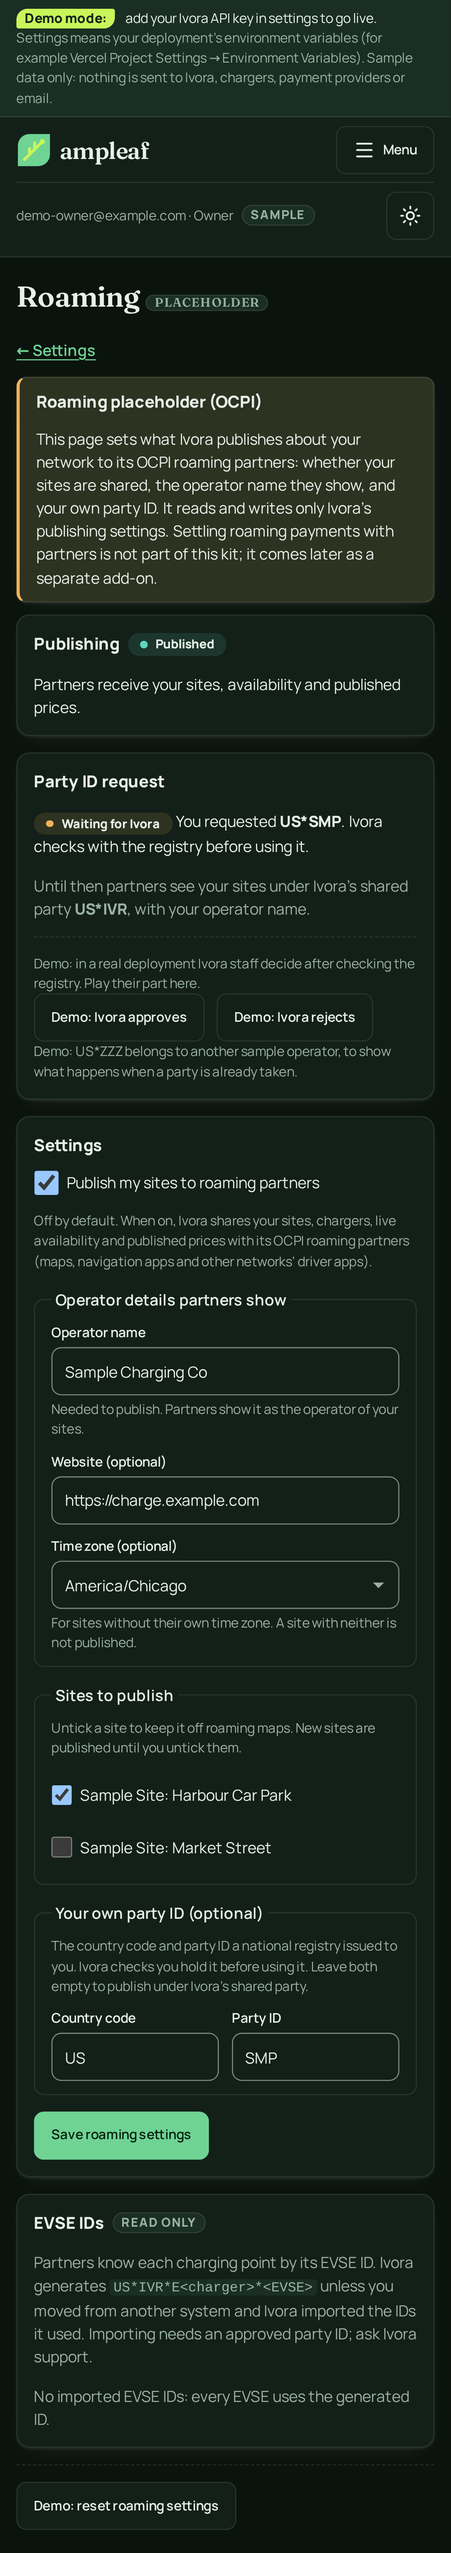
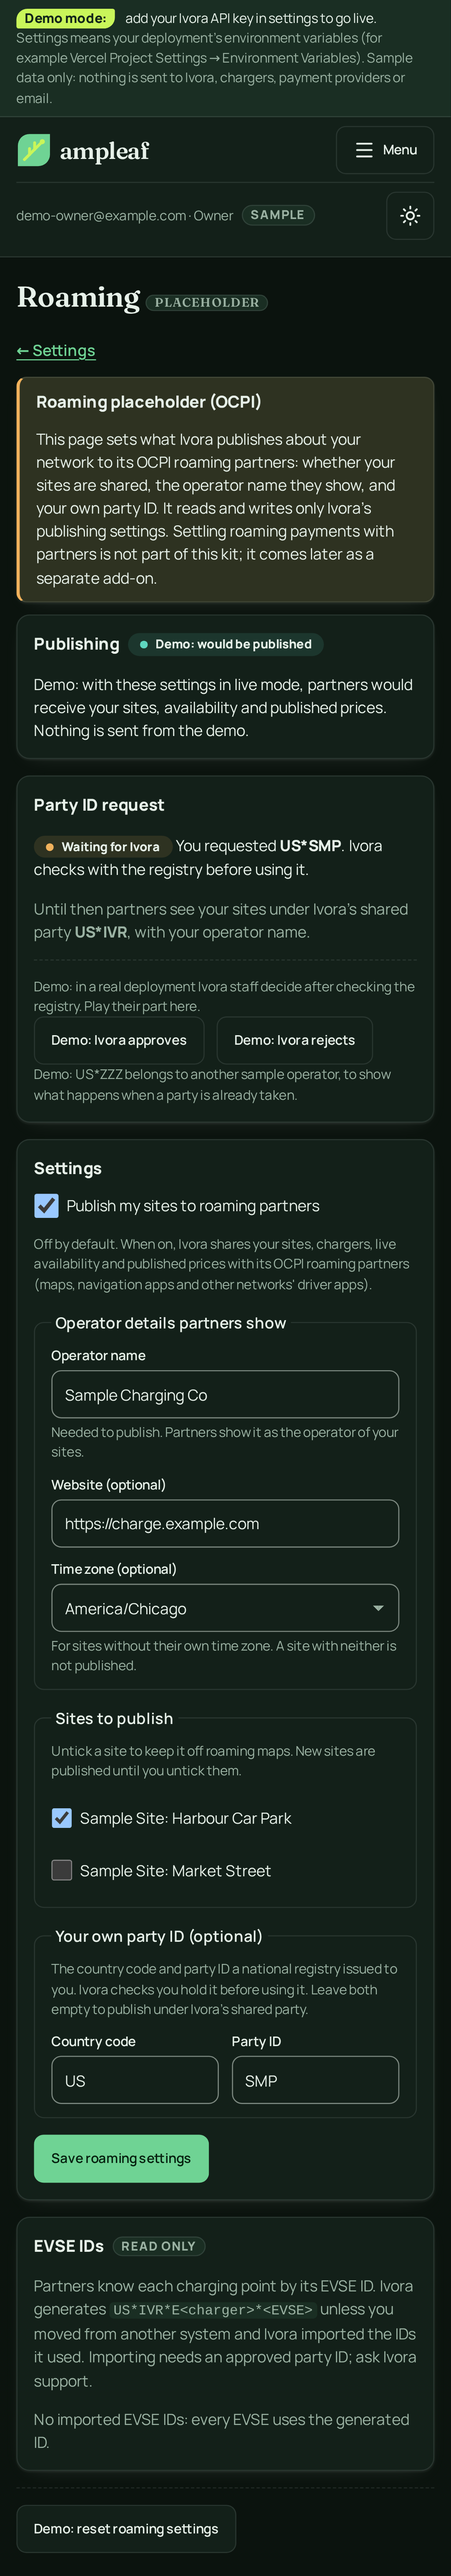
[SQD-25] Roaming review fixes: README screenshots, demo publish label, save log, connector defaults
- README embeds the light and dark, desktop and phone roaming screenshots.
- Demo mode labels the publishing state "Demo: would be published".
- A successful PUT /ocpi logs the staff user ID and action (no PII).
- Saves send back only the operator's own connector defaults (fields that
  differ from Ivora's documented Level 2 values), so Ivora's stay Ivora's.
- createDemoClient takes the roaming store in a 4th options parameter, so
  other modules can add a third one without moving it.
- Screenshots retaken.

diff --git a/cpo-starter-kit/tests/roaming.test.ts b/cpo-starter-kit/tests/roaming.test.ts
@@ -10,7 +10,9 @@ import type { OcpiSettings } from "@/lib/server/ivora/types";
 import { getRoaming } from "@/lib/server/roaming";
 import { parseRoamingForm, type RoamingForm } from "@/lib/server/roaming/input";
 import {
+  connectorOverrides,
   decideDemoParty,
+  LEVEL_2_CONNECTOR,
   loadRoaming,
   roamingKey,
   saveRoaming,
@@ -180,6 +182,7 @@ describe("roaming against the live API", () => {
     });
   });
   afterEach(() => {
+    vi.restoreAllMocks();
     vi.unstubAllGlobals();
     process.env = { ...saved };
   });
@@ -275,16 +278,27 @@ describe("roaming against the live API", () => {
       "GET ocpi": () => json(200, SETTINGS),
       "PUT ocpi": () => json(200, answer),
     });
+    const info = vi.spyOn(console, "info").mockImplementation(() => {});
     const r = await saveRoaming(api.deps, manager, FORM);
     expect(r.partyRequested).toBe(true);
+    // Who saved, by staff id only: no email or settings in the log.
+    expect(info).toHaveBeenCalledWith(
+      "cpo-starter-kit: roaming settings saved",
+      {
+        user: manager.userId,
+        action: "ocpi_settings_put",
+      },
+    );
+    expect(JSON.stringify(info.mock.calls)).not.toContain(manager.email);
     const put = api.calls.find((c) => c.method === "PUT")!;
     expect(put.body).toEqual({
       publish: true,
       display_name: "Northside EV",
       website: "https://northside.example",
       time_zone: "America/Chicago",
-      // Not edited by the kit: sent back as Ivora answered, so PUT keeps it.
-      connector_defaults: SETTINGS.connector_defaults,
+      // Not edited by the kit: only the operator's own value (Ivora's Level 2
+      // defaults are left out, so they stay Ivora's).
+      connector_defaults: { max_amperage: 40 },
       // 99 was not listed, so it stays excluded; 8 was unticked; 7 was ticked again.
       excluded_location_ids: [8, 99],
       own_party: { country_code: "US", party_id: "NTH" },
@@ -298,6 +312,17 @@ describe("roaming against the live API", () => {
     );
     expect(key).toMatch(/^cpo-ocpi-settings-[0-9a-f]{32}-put$/);
     expect(put.headers.get("authorization")).toBe(`Bearer ${API_KEY}`);
+  });
+
+  it("sends back only the operator's own connector defaults, never Ivora's", () => {
+    expect(connectorOverrides({ ...LEVEL_2_CONNECTOR })).toBeNull();
+    expect(
+      connectorOverrides({
+        ...LEVEL_2_CONNECTOR,
+        standard: "IEC_62196_T2",
+        max_voltage: 400,
+      }),
+    ).toEqual({ standard: "IEC_62196_T2", max_voltage: 400 });
   });
 
   it("the same save from the same starting point reuses its key; a different one does not", () => {
@@ -427,6 +452,7 @@ describe("roaming in demo mode", () => {
     vi.stubGlobal("fetch", fetchSpy);
   });
   afterEach(() => {
+    vi.restoreAllMocks();
     vi.unstubAllGlobals();
     process.env = { ...saved };
   });
@@ -437,7 +463,8 @@ describe("roaming in demo mode", () => {
       ivora: createDemoClient(
         memoryDemoFleet(),
         () => Date.UTC(2026, 9, 22),
-        ocpi,
+        undefined,
+        { ocpi },
       ),
       demoOcpi: ocpi,
     };

diff --git a/cpo-starter-kit/lib/server/roaming/service.ts b/cpo-starter-kit/lib/server/roaming/service.ts
@@ -7,6 +7,7 @@ import {
   idempotencyKey,
   IvoraError,
   type IvoraClient,
+  type OcpiConnectorDefaults,
   type OcpiPartyRef,
   type OcpiSettings,
   type OcpiSettingsInput,
@@ -36,6 +37,34 @@ export const MAX_EXCLUDED = 1000;
 
 export const partyLabel = (p: OcpiPartyRef) =>
   `${p.country_code}*${p.party_id}`;
+
+/**
+ * The connector facts Ivora uses where none are set (a North American Level 2 J1772
+ * cable, 240 V, 32 A). GET answers `connector_defaults` merged over these.
+ */
+export const LEVEL_2_CONNECTOR: OcpiConnectorDefaults = {
+  standard: "IEC_62196_T1",
+  format: "CABLE",
+  power_type: "AC_1_PHASE",
+  max_voltage: 240,
+  max_amperage: 32,
+};
+
+/**
+ * The operator's own connector facts, without Ivora's: GET answers them merged over
+ * the Level 2 values, so only the fields that differ are the operator's. Sending the
+ * merged object back would pin Ivora's defaults as the operator's settings.
+ */
+export function connectorOverrides(
+  merged: OcpiConnectorDefaults,
+): Partial<OcpiConnectorDefaults> | null {
+  const own = Object.fromEntries(
+    (Object.keys(LEVEL_2_CONNECTOR) as (keyof OcpiConnectorDefaults)[])
+      .filter((k) => merged[k] !== LEVEL_2_CONNECTOR[k])
+      .map((k) => [k, merged[k]]),
+  ) as Partial<OcpiConnectorDefaults>;
+  return Object.keys(own).length ? own : null;
+}
 
 const revisionOf = (s: OcpiSettings) => s.updated_at ?? "default";
 
@@ -134,8 +163,8 @@ export interface RoamingSaved {
 
 /**
  * Saves the Roaming form. PUT /ocpi replaces every setting, so the whole object is
- * sent: what the form edits, the excluded sites it did not list, and the connector
- * defaults the kit does not edit (as Ivora last answered them).
+ * sent: what the form edits, the excluded sites it did not list, and the operator's
+ * own connector defaults (the kit does not edit them; Ivora's stay Ivora's).
  */
 export async function saveRoaming(
   deps: RoamingDeps,
@@ -171,7 +200,7 @@ export async function saveRoaming(
     display_name: v.displayName,
     website: v.website,
     time_zone: v.timeZone,
-    connector_defaults: current.connector_defaults,
+    connector_defaults: connectorOverrides(current.connector_defaults),
     excluded_location_ids: excludedIds,
     own_party: v.ownParty,
   };
@@ -196,6 +225,10 @@ export async function saveRoaming(
   } catch (e) {
     throw friendly(e, body);
   }
+  console.info("cpo-starter-kit: roaming settings saved", {
+    user: actor.userId,
+    action: "ocpi_settings_put",
+  });
   const after = settings.own_party;
   return {
     settings,

diff --git a/cpo-starter-kit/lib/server/ivora/demo.ts b/cpo-starter-kit/lib/server/ivora/demo.ts
@@ -516,15 +516,24 @@ const op = (
   result: Record<string, unknown> | null = null,
 ): Operation => ({ id: `demo-op-${id}`, status: "succeeded", result });
 
+/** The visitor's other demo stores; each defaults to an in-memory one. */
+export interface DemoClientStores {
+  /** Roaming (OCPI publishing) settings. */
+  ocpi?: DemoOcpiStore;
+}
+
 /**
  * The demo implementation of the Ivora client. It answers from the sample data above
- * and the visitor's own demo fleet (`fleet`) and roaming settings (`ocpi`), and never
- * sends a request anywhere: no charger commands, no payments, no email, no network.
+ * and the visitor's own demo fleet (`fleet`) and roaming settings (`stores.ocpi`), and
+ * never sends a request anywhere: no charger commands, no payments, no email, no network.
+ * The third parameter is unused for now (`undefined`); it is kept free so other modules
+ * can add theirs without moving `stores`.
  */
 export function createDemoClient(
   fleet: DemoFleetStore = memoryDemoFleet(),
   now: () => number = Date.now,
-  ocpi: DemoOcpiStore = memoryDemoOcpi(),
+  _reserved?: undefined,
+  { ocpi = memoryDemoOcpi() }: DemoClientStores = {},
 ): IvoraClient {
   const update = async <T>(change: (f: DemoFleet) => T): Promise<T> => {
     const f = await fleet.load();

diff --git a/cpo-starter-kit/app/settings/roaming/page.tsx b/cpo-starter-kit/app/settings/roaming/page.tsx
@@ -50,6 +50,8 @@ function publishingReason(v: RoamingView): string {
   if (!s.display_name) return "Publishing needs an operator name.";
   if (!s.versions_url)
     return "Your settings are saved, but this Ivora environment does not serve OCPI yet. They take effect once it does.";
+  if (v.demo)
+    return "Demo: with these settings in live mode, partners would receive your sites, availability and published prices. Nothing is sent from the demo.";
   return "Partners receive your sites, availability and published prices.";
 }
 
@@ -158,7 +160,9 @@ export default async function Page() {
         <h2 id="status-heading">
           Publishing
           {s.published ? (
-            <span className="pill ok">Published</span>
+            <span className="pill ok">
+              {v.demo ? "Demo: would be published" : "Published"}
+            </span>
           ) : (
             <span className="pill off">Not published</span>
           )}

diff --git a/cpo-starter-kit/e2e/roaming.spec.ts b/cpo-starter-kit/e2e/roaming.spec.ts
@@ -47,7 +47,8 @@ test("demo: publish sites, request a party ID and see Ivora's approval", async (
   await expect(page.locator("main").getByRole("status")).toContainText(
     "Party US*SMP is waiting for Ivora's approval",
   );
-  await expect(status).toContainText("Published");
+  await expect(status).toContainText("Demo: would be published");
+  await expect(status).toContainText("partners would receive your sites");
   const party = page.getByRole("region", { name: "Party ID request" });
   await expect(party).toContainText("Waiting for Ivora");
   await expect(party).toContainText("shared party US*IVR");

diff --git a/cpo-starter-kit/lib/server/ivora/index.ts b/cpo-starter-kit/lib/server/ivora/index.ts
@@ -31,7 +31,8 @@ export function getIvora(): IvoraClient {
     return (c.demo ??= createDemoClient(
       cookieDemoFleet(),
       Date.now,
-      cookieDemoOcpi(),
+      undefined,
+      { ocpi: cookieDemoOcpi() },
     ));
   const liveFor = `${config.apiBaseUrl}|${config.tenantId}|${config.apiKey}`;
   if (!c.live || c.liveFor !== liveFor) {

diff --git a/cpo-starter-kit/README.md b/cpo-starter-kit/README.md
@@ -117,17 +117,20 @@ Owners and managers only (the section, every page and every server action check 
 
 A placeholder for OCPI roaming: it sets what Ivora publishes about your network to its roaming partners (maps, navigation apps and other networks' driver apps) and nothing else. **Roaming payments (settling roaming charges with partners) are not part of the kit; they come later as a separate add-on.** Owners and managers only: the page and every server action check the role on the server.
 
-- **One settings object in Ivora:** the page reads `GET /ocpi` and saves with `PUT /ocpi`. The kit keeps no copy (no table, no migration). `PUT` replaces every setting and omitted fields return to their defaults, so every save sends the whole object: what the form edits, unpublished sites the page did not list, and the connector defaults the kit does not edit (sent back as Ivora last answered them).
-- **Publish:** off by default. Publishing needs an operator name (partners show it as the operator and owner of your sites). The page says whether partners receive your sites now (`published`) and why not: publishing off, no operator name, a network Ivora keeps private, or an Ivora environment that does not serve OCPI yet (`versions_url` is null; the settings take effect once it does).
+- **One settings object in Ivora:** the page reads `GET /ocpi` and saves with `PUT /ocpi`. The kit keeps no copy (no table, no migration). `PUT` replaces every setting and omitted fields return to their defaults, so every save sends the whole object: what the form edits, unpublished sites the page did not list, and your own connector defaults, which the kit does not edit. `GET` answers them merged over Ivora's Level 2 values, so the kit sends back only the fields that differ (or `null`), and Ivora's defaults stay Ivora's.
+- **Publish:** off by default. Publishing needs an operator name (partners show it as the operator and owner of your sites). The page says whether partners receive your sites now (`published`; in demo mode it reads **Demo: would be published**, since nothing is sent) and why not: publishing off, no operator name, a network Ivora keeps private, or an Ivora environment that does not serve OCPI yet (`versions_url` is null; the settings take effect once it does).
 - **Website and time zone:** an `https` website shown with the operator name, and an IANA zone (Region/City) for sites without their own; a site with neither is not published.
 - **Sites to publish:** every site is listed with a tick; untick one to keep it off roaming maps (`excluded_location_ids`, at most 1,000). New sites are published until you untick them.
 - **Your own party ID:** the country code and party ID a national registry issued you. Ivora checks you hold it before using it; the page shows **Waiting for Ivora**, **Approved** or **Not approved** with Ivora's note. Until it is approved, partners see your sites under Ivora's shared party `US*IVR`, with your operator name. Leave both fields empty to use the shared party.
 - **EVSE IDs (read only):** the IDs partners know each charging point by. Ivora generates `<party>*E<station>*<evse>`; IDs imported from a previous system (after your party is approved) are listed with whether each one is used now. The kit does not import them.
 - **Errors:** `409 ocpi_tenant_private` ("Ivora keeps this network private…": save with publishing off, or contact Ivora support) and `409 ocpi_party_in_use` ("Ivora has already approved party … for another operator…": contact Ivora support with the registry entry, or use the shared party) get their own messages; other errors show Ivora's code and request ID. The form checks the same rules as the API first (operator name to publish, `https` website, two-letter country code, three-character party ID, not `US*IVR`).
-- **Safe saves:** each save names the settings' `updated_at` the page was loaded at; if someone saved in between, the save is refused with "Reload…" rather than overwriting their change. The `Idempotency-Key` is `cpo-ocpi-settings-<hash of that revision and the body>-put`, so a retry of the same save is answered once.
+- **Safe saves:** each save names the settings' `updated_at` the page was loaded at; if someone saved in between, the save is refused with "Reload…" rather than overwriting their change. After a save, the server logs the staff member's user ID and the action (no email or settings). The `Idempotency-Key` is `cpo-ocpi-settings-<hash of that revision and the body>-put`, so a retry of the same save is answered once.
 - **Demo mode** starts with publishing off and no party. Settings stay in your browser's cookie and nothing is sent to Ivora. Demo-only buttons play Ivora staff approving or rejecting your party request, and party `US*ZZZ` belongs to "another sample operator" to show `ocpi_party_in_use`.
 
-![Roaming settings in demo mode](docs/screens/roaming-desktop-light.png)
+| Light                                                                           | Dark                                                                          |
+| ------------------------------------------------------------------------------- | ----------------------------------------------------------------------------- |
+| ![Roaming settings in demo mode, light](docs/screens/roaming-desktop-light.png) | ![Roaming settings in demo mode, dark](docs/screens/roaming-desktop-dark.png) |
+| ![Roaming settings on a phone, light](docs/screens/roaming-phone-light.png)     | ![Roaming settings on a phone, dark](docs/screens/roaming-phone-dark.png)     |
 
 ### QR codes on your own domain
 
